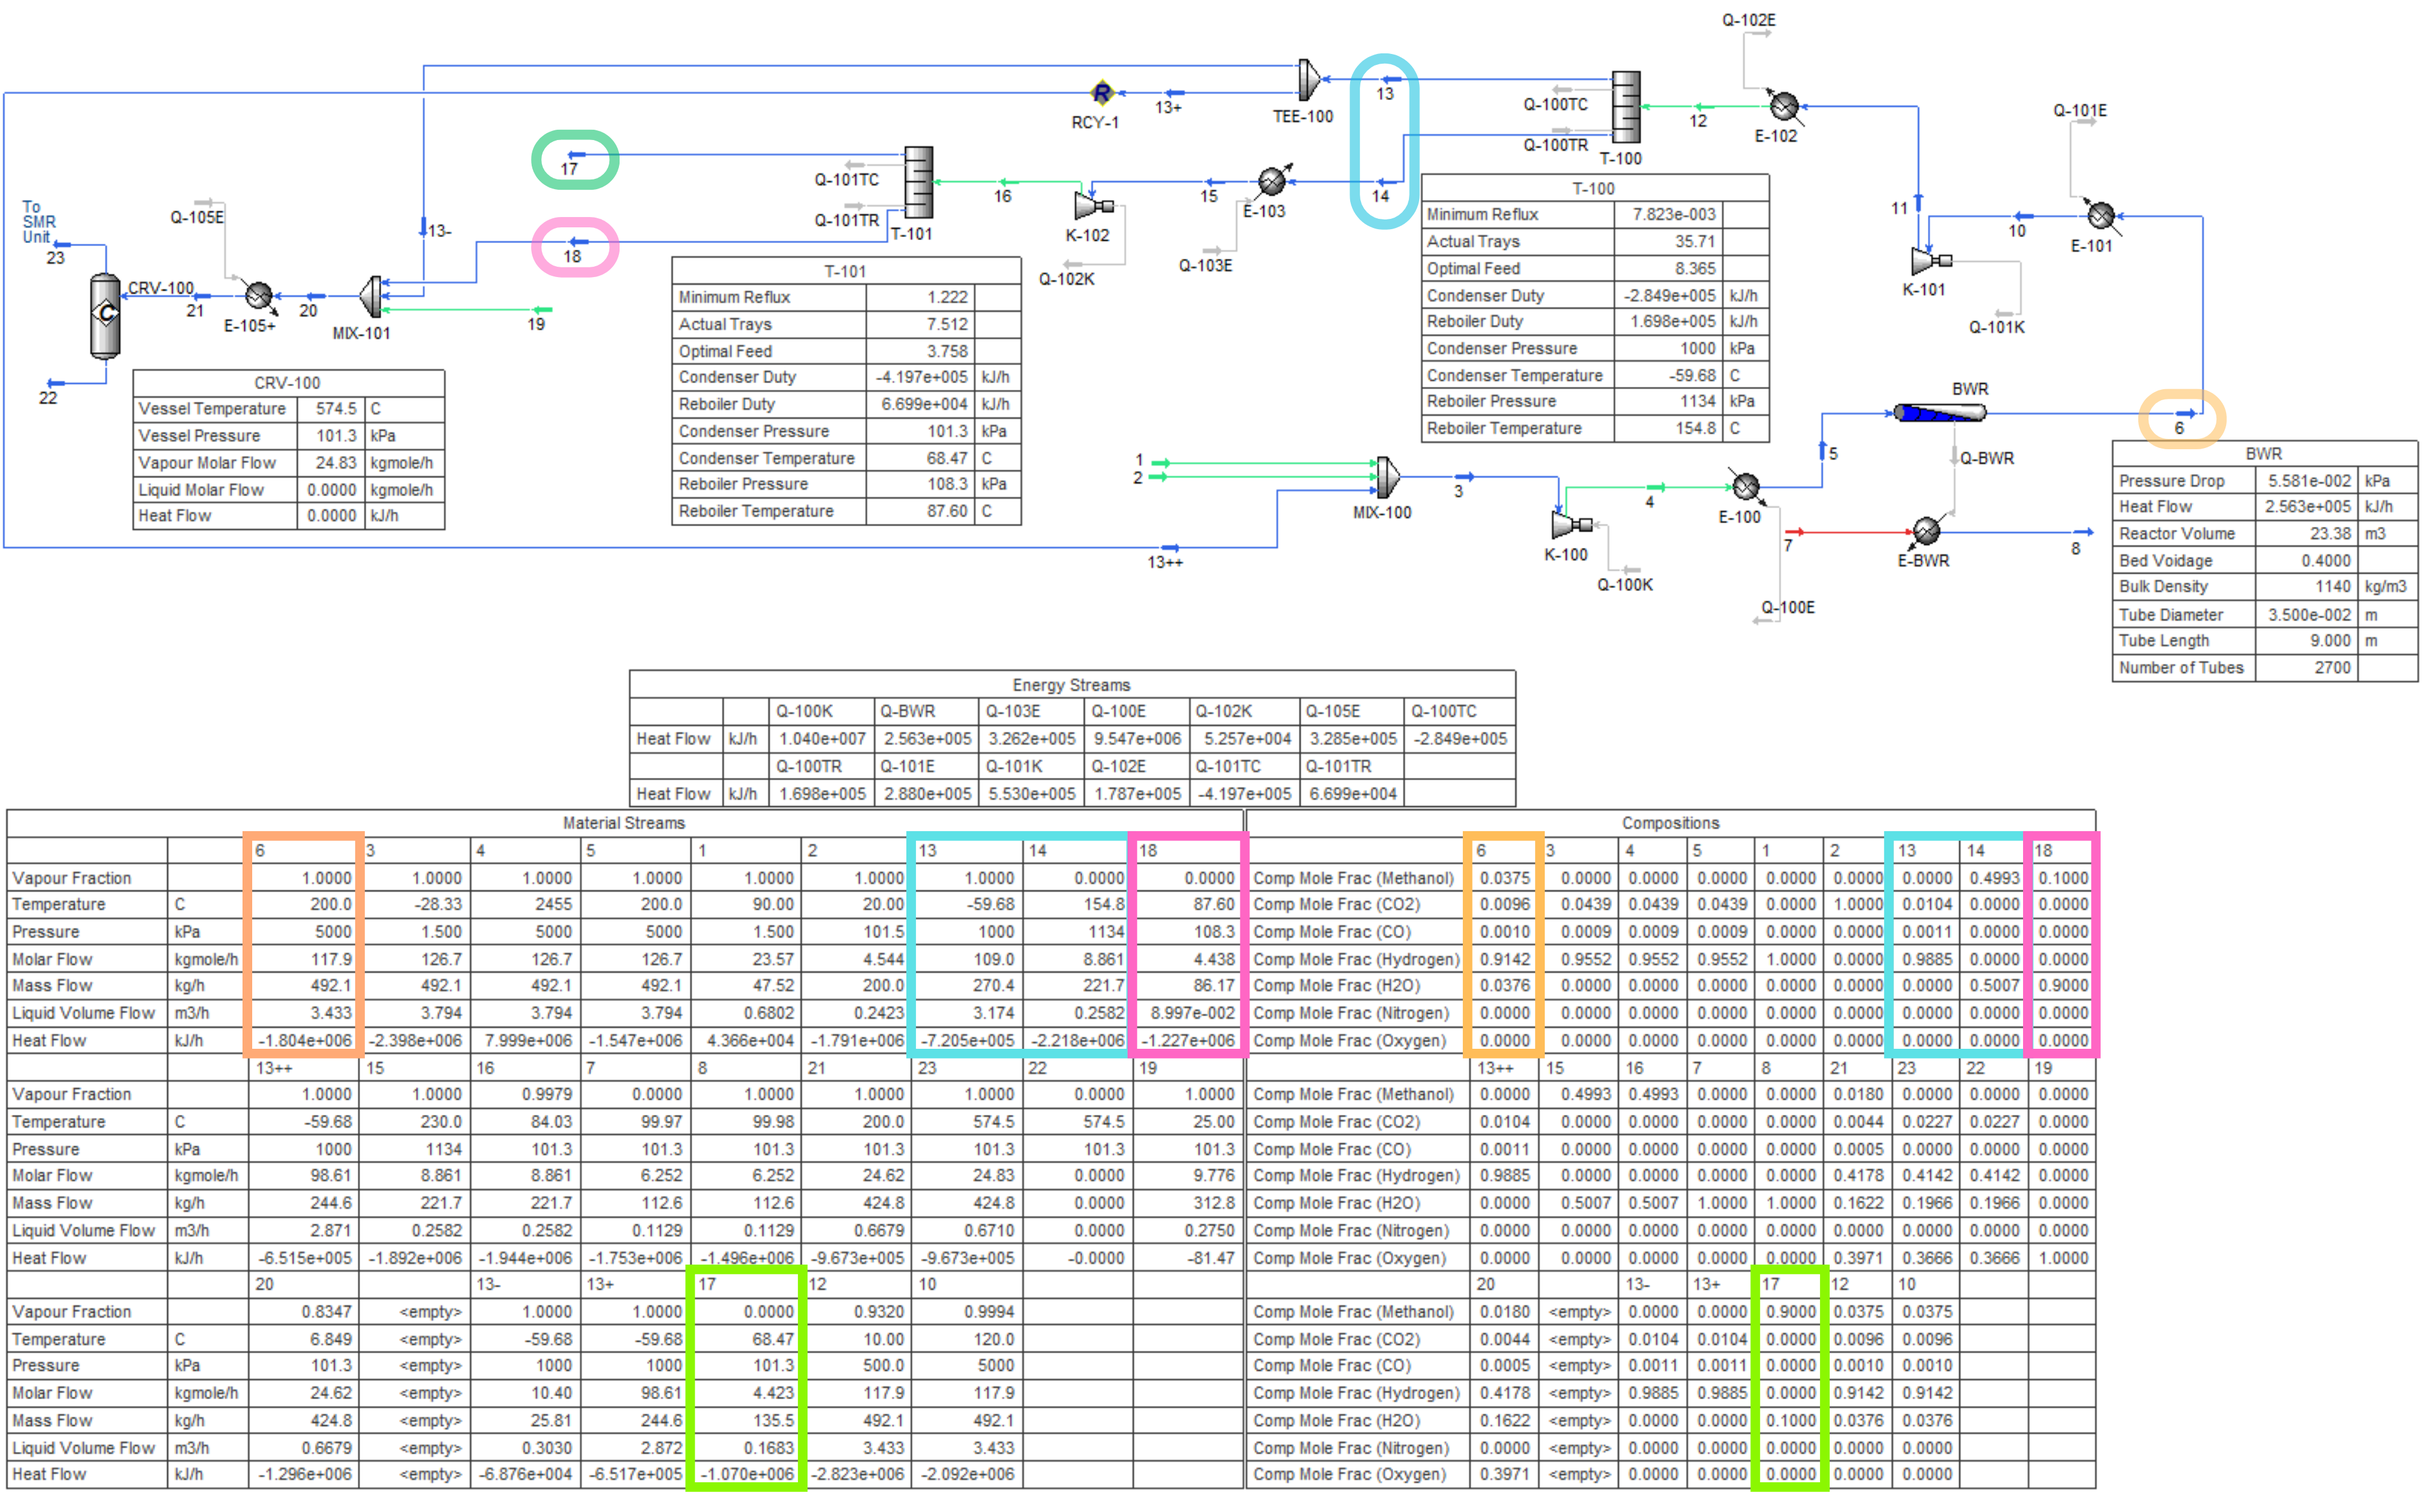
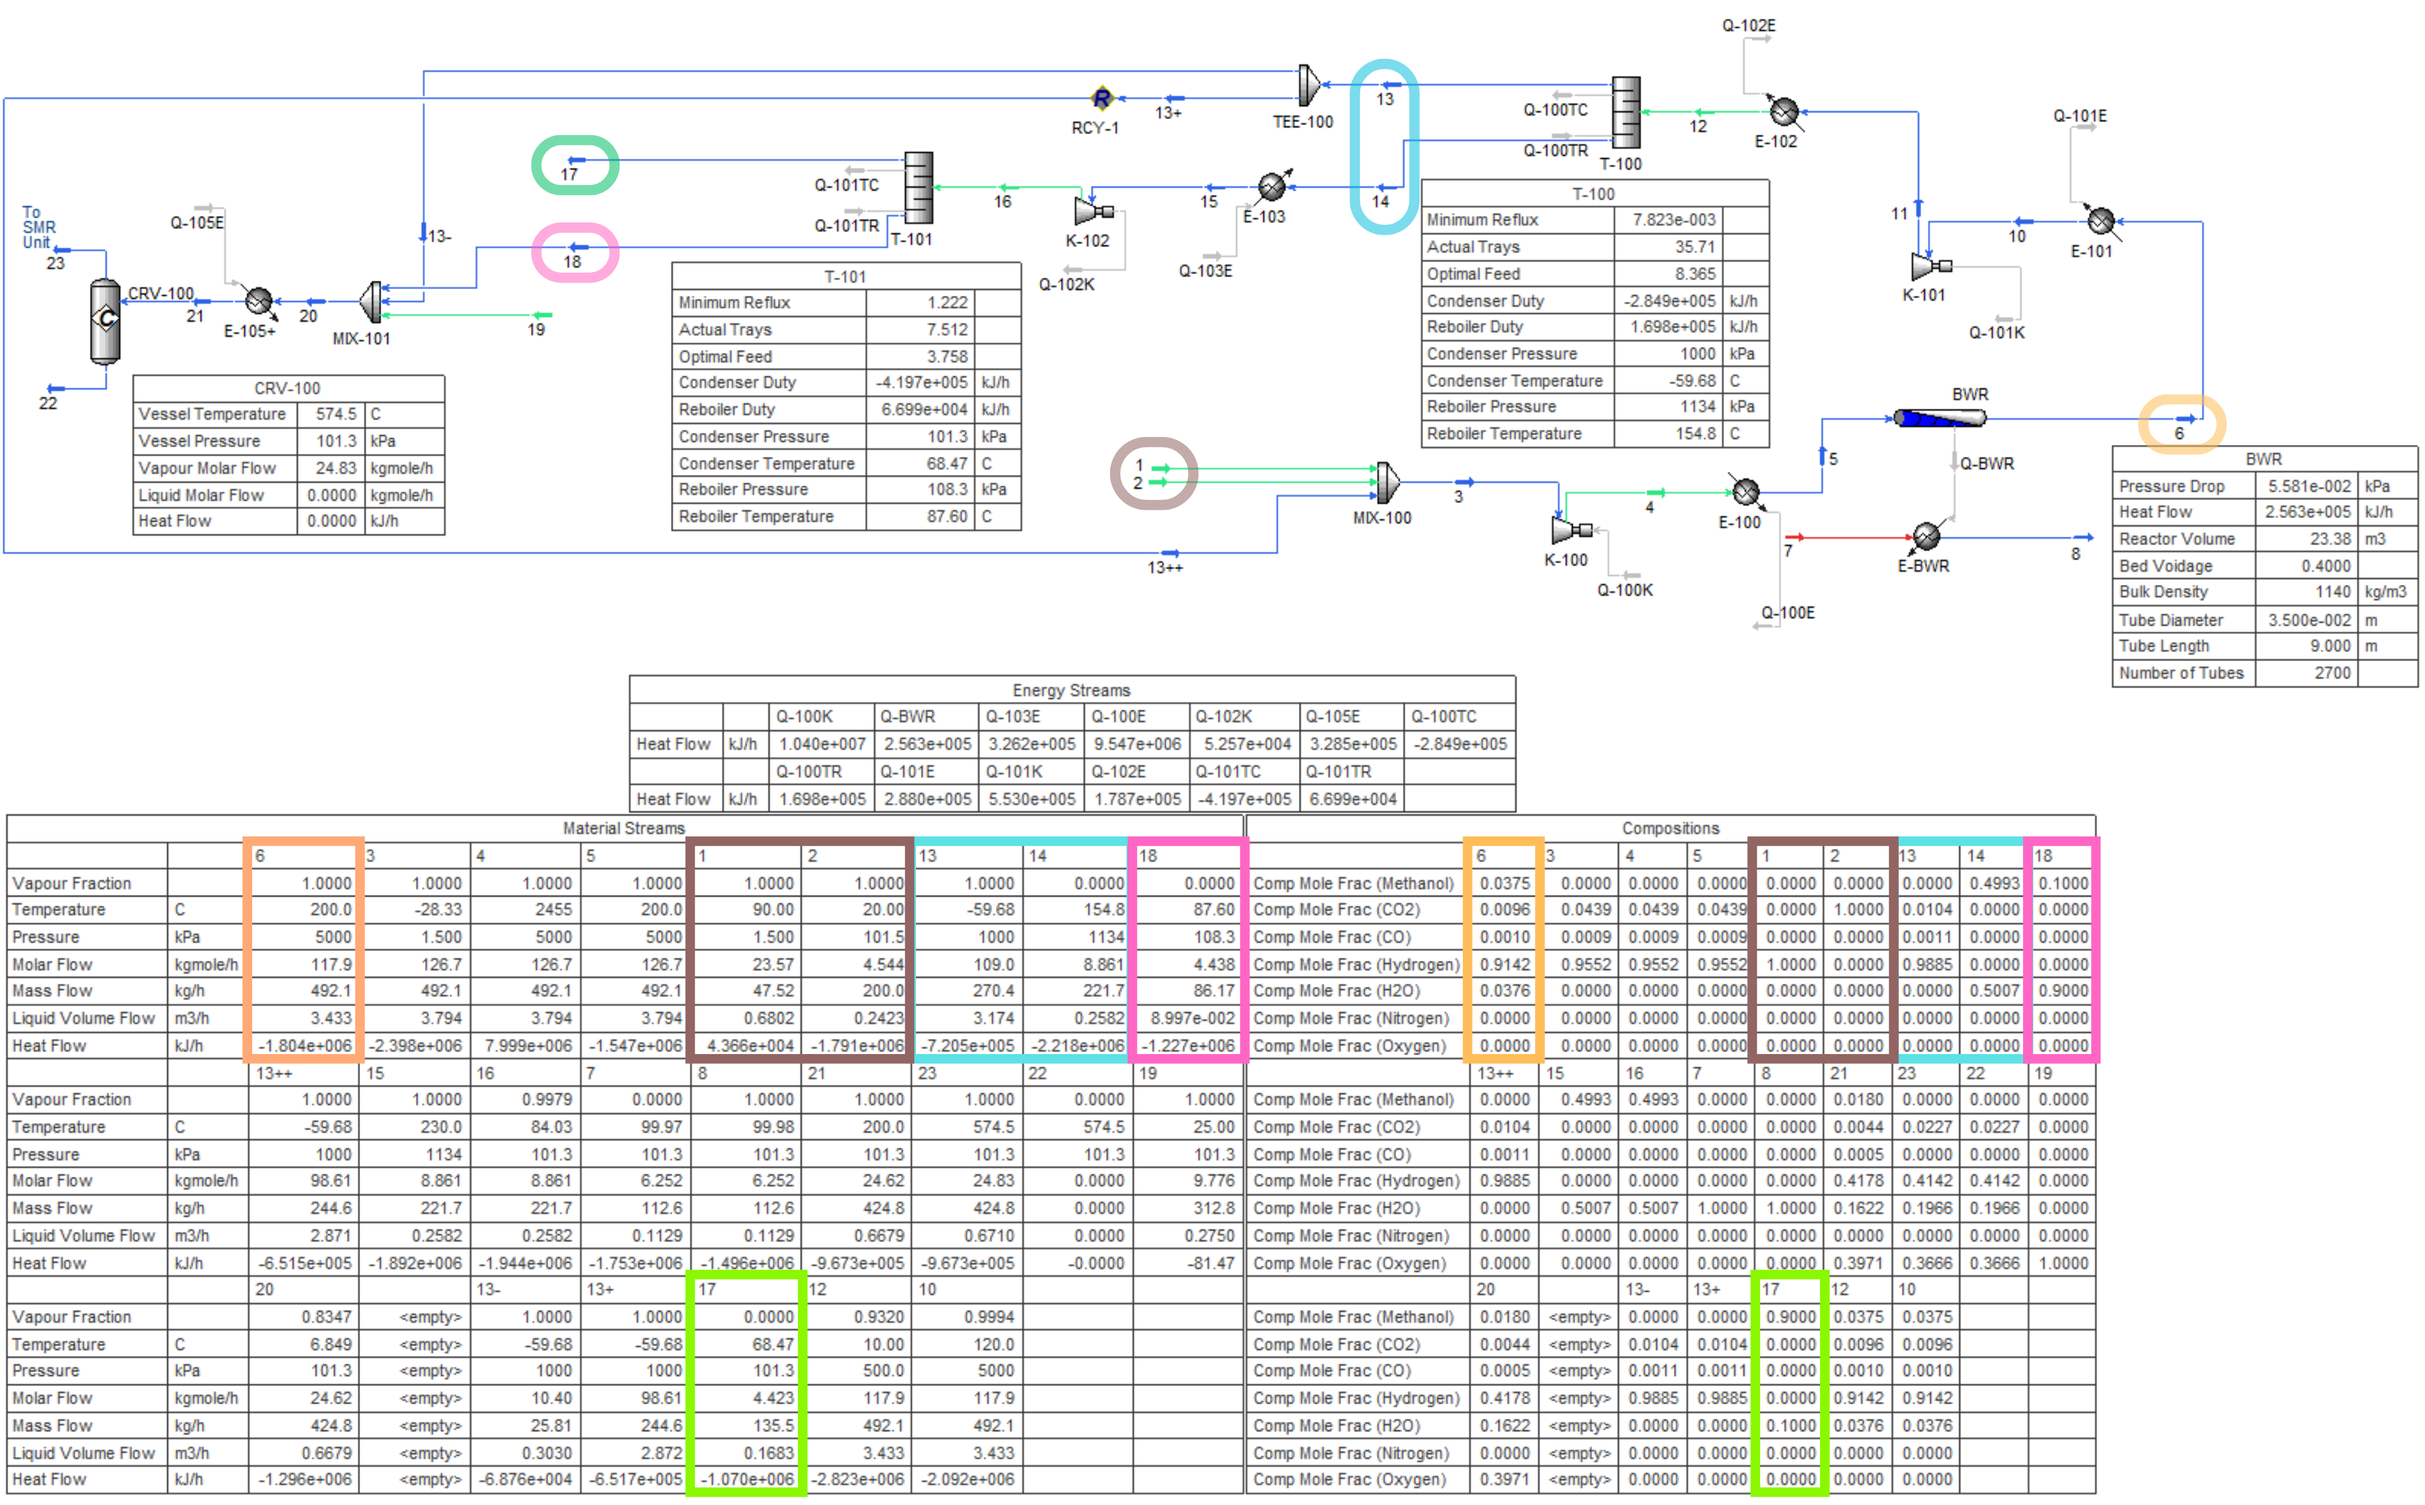
added new results

diff --git a/project_site/index.html b/project_site/index.html
@@ -142,7 +142,7 @@
               BOTTOM: ASPEN HYSYS tables
               <br>
               <br>
-              Outlined streams: <p style="color:rgb(127, 255, 146)">&nbsp; &nbsp; product</p><p style="color: rgb(255, 141, 190)">&nbsp; &nbsp; waste</p><p style="color: aqua">&nbsp; &nbsp; recycle distillation column outlets</p><p style="color: peachpuff">&nbsp; &nbsp; reactor effluent</p>
+              Outlined streams: <p style="color: rgb(180, 156, 156)">&nbsp; &nbsp; H₂ (1), CO₂ (2) feed stocks </p><p style="color:rgb(127, 255, 146)">&nbsp; &nbsp; product</p><p style="color: rgb(255, 141, 190)">&nbsp; &nbsp; waste</p><p style="color: aqua">&nbsp; &nbsp; recycle distillation column outlets</p><p style="color: peachpuff">&nbsp; &nbsp; reactor effluent</p>
             </p>
           </div>
         </div>
@@ -171,7 +171,7 @@
                 BOTTOM: ASPEN HYSYS tables
                 <br>
                 <br>
-              Outlined streams: <p style="color:rgb(127, 255, 146)">&nbsp; &nbsp; product</p><p style="color: rgb(255, 141, 190)">&nbsp; &nbsp; waste</p><p style="color: aqua">&nbsp; &nbsp; recycle distillation column outlets</p><p style="color: peachpuff">&nbsp; &nbsp; reactor effluent</p>
+              Outlined streams: <p style="color: rgb(180, 156, 156)">&nbsp; &nbsp; H₂ (1), CO₂ (2) feed stocks </p><p style="color:rgb(127, 255, 146)">&nbsp; &nbsp; product</p><p style="color: rgb(255, 141, 190)">&nbsp; &nbsp; waste</p><p style="color: aqua">&nbsp; &nbsp; recycle distillation column outlets</p><p style="color: peachpuff">&nbsp; &nbsp; reactor effluent</p>
               </p>
             </h1>
           </div>
